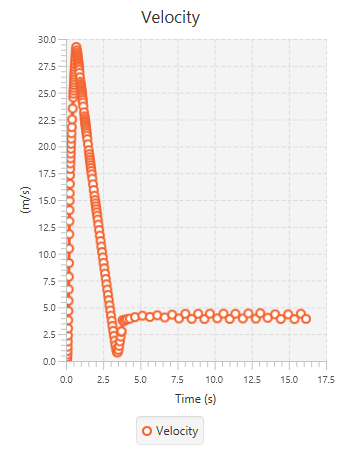
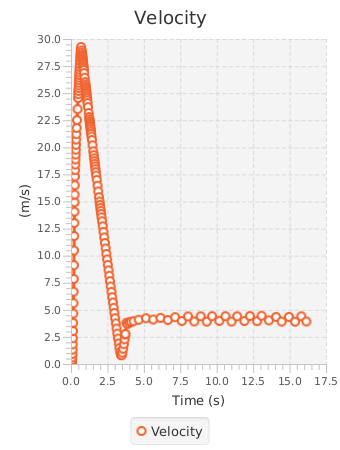
Fixes accleration graph screenshot Adds dependencies for geojson, fixes spelling with sreenshot names

diff --git a/src/main/java/org/group11/controller/SimulationTabController.java b/src/main/java/org/group11/controller/SimulationTabController.java
@@ -107,7 +107,7 @@ public class SimulationTabController implements Initializable {
 		velocitySeries.setName("Velocity");
 		velocityChart.setAnimated(false);
 		velocityChart.getData().add(velocitySeries);
-		File velGraph = new File("output/Simulation Data/graphs/Velocity Grpah.png");
+		File velGraph = new File("output/Simulation Data/graphs/Velocity Graph.png");
 		velGraph.createNewFile();
 		WritableImage img = velocityChart.snapshot(new SnapshotParameters(), null);
 		ImageIO.write(SwingFXUtils.fromFXImage(img, null), "PNG", velGraph);
@@ -133,9 +133,9 @@ public class SimulationTabController implements Initializable {
 		accelerationChart.setAnimated(false);
 		accelerationChart.getData().add(accelerationSeries);
 
-		File accGraph = new File("output/Simulation Data/graphs/Acceleration Grpah.png");
+		File accGraph = new File("output/Simulation Data/graphs/Acceleration Graph.png");
 		accGraph.createNewFile();
-		WritableImage img = velocityChart.snapshot(new SnapshotParameters(), null);
+		WritableImage img = accelerationChart.snapshot(new SnapshotParameters(), null);
 		ImageIO.write(SwingFXUtils.fromFXImage(img, null), "PNG", accGraph);
 		updateMap();
 	}
@@ -150,9 +150,7 @@ public class SimulationTabController implements Initializable {
 	@Override
   public void initialize(URL url, ResourceBundle rb) {
     webEngine=webView.getEngine();
-    //MapBox.setLatLng(-41.285099,174.776001);
     webEngine.load(MapBox.generateApiCall("345" , "610","0"));
-    //webEngine.load("https://api.mapbox.com/styles/v1/mapbox/satellite-streets-v11/static/174.776001,-41.285099,14/610x345@2x?access_token=pk.eyJ1IjoiY3ZidXJ0MDgiLCJhIjoiY2tkcDdjaGE5MXprZjJycGR2N2FhN2Q3OSJ9.WHW0WMAG5hF6xhtehdo3EQ");
   }
 
 }
